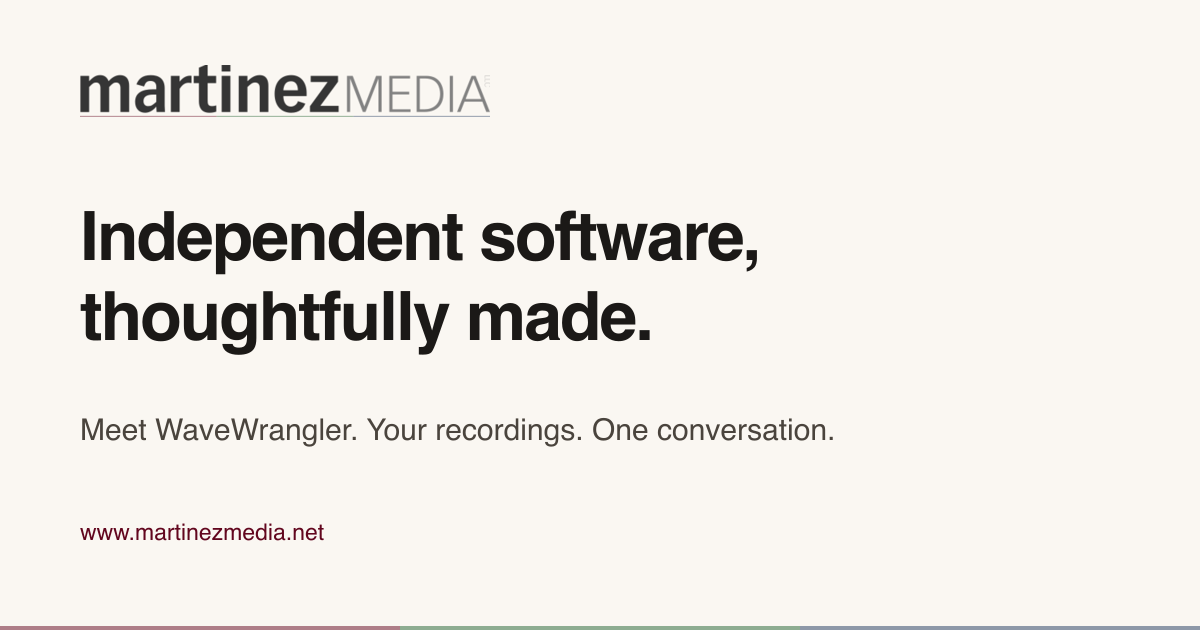
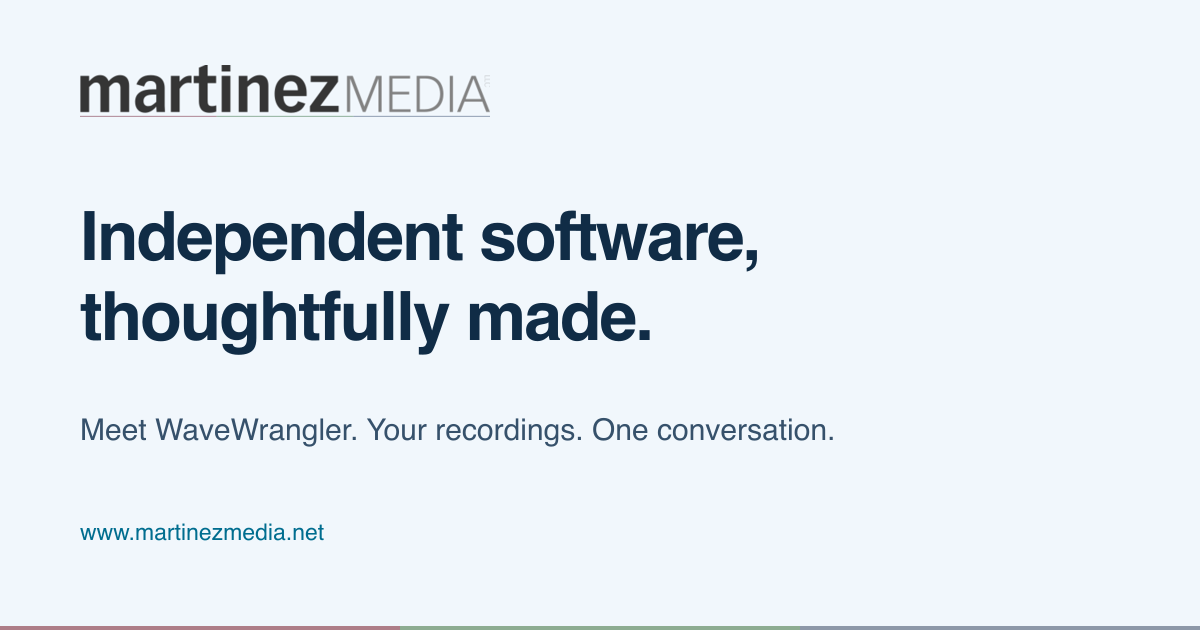
Apply Lake and Signal palette with persistent dark mode

diff --git a/styles/tailwind.css b/styles/tailwind.css
@@ -5,24 +5,27 @@
 @source "../src/**/*.html";
 
 @theme {
-  /* Warm paper palette — restrained, print-like, lets the logos carry colour. */
-  --color-paper: #faf7f2;
-  --color-paper-deep: #f2ece3;
-  --color-ink: #1b1917;
-  --color-ink-soft: #4a443d;
-  --color-ink-faint: #7d766c;
-  --color-rule: #e2d9cc;
-  --color-ember: #9a6b43;
-  --color-wine: #62061e;
-  --color-navy: #21395e;
+  /* Lake & Signal: paired roles follow color-scheme, including without JS. */
+  --color-paper: light-dark(#f1f7fc, #0b1725);
+  --color-paper-deep: light-dark(#dceaf5, #132c40);
+  --color-ink: light-dark(#102c46, #edf6fc);
+  --color-ink-soft: light-dark(#36516b, #b6ccde);
+  --color-ink-faint: light-dark(#47647d, #9cb7cb);
+  --color-rule: light-dark(#bcd0df, #29465e);
+  --color-action: light-dark(#006d8f, #68d5eb);
+  --color-action-hover: light-dark(#00536e, #a4e8f4);
+  --color-on-action: light-dark(#ffffff, #0b1725);
+  --color-accent: light-dark(#db6a3c, #ffb08a);
+  --color-band: light-dark(#123e58, #153e55);
+  --color-on-band: #edf6fc;
+  --color-logo-paper: light-dark(transparent, #f1f7fc);
   --color-white: #ffffff;
 
   /* The three-colour rule beneath the wordmark, carried through from the
-     1990s-era logo. These are the logo's wine/green/navy at the 50% opacity
-     the mark uses, pre-blended over --color-paper. */
-  --color-brand-wine: #ae7e88;
-  --color-brand-green: #8dac91;
-  --color-brand-navy: #8d98a8;
+     1990s-era logo, blended over the active canvas at the original 50%. */
+  --color-brand-wine: color-mix(in srgb, #62061e 50%, var(--color-paper));
+  --color-brand-green: color-mix(in srgb, #216130 50%, var(--color-paper));
+  --color-brand-navy: color-mix(in srgb, #21395e 50%, var(--color-paper));
 
   --font-display:
     "Iowan Old Style", "Palatino Linotype", Palatino, "Book Antiqua", Georgia,
@@ -35,12 +38,15 @@
 }
 
 @layer base {
+  :root { color-scheme: light dark; }
+  :root[data-theme="light"] { color-scheme: light; }
+  :root[data-theme="dark"] { color-scheme: dark; }
   html {
     scroll-behavior: smooth;
   }
   ::selection {
-    background-color: var(--color-ember);
-    color: var(--color-paper);
+    background-color: var(--color-action);
+    color: var(--color-on-action);
   }
 }
 
@@ -61,17 +67,16 @@
   img { height: auto; }
   a { text-underline-offset: .22em; }
   a:hover { text-decoration-thickness: 2px; }
-  :focus-visible { outline: 3px solid var(--color-navy); outline-offset: 5px; }
-  ::selection { background: var(--color-wine); color: var(--color-paper); }
+  :focus-visible { outline: 3px solid var(--color-action); outline-offset: 5px; }
 }
 
 @layer components {
   .wrap { width: min(100% - 3rem, 76rem); margin-inline: auto; }
   .site-header { display: flex; align-items: center; justify-content: space-between; gap: 1.5rem; padding-block: 1.8rem; border-bottom: 1px solid var(--color-rule); }
-  .brand { display: block; width: 13rem; flex-shrink: 0; }
+  .brand { display: block; width: 14.5rem; padding: .65rem .75rem; margin-left: -.75rem; flex-shrink: 0; background: var(--color-logo-paper); border-radius: .3rem; }
   .site-nav { display: flex; flex-wrap: wrap; gap: .3rem 1.6rem; font-size: .9rem; }
   .site-nav a { padding-block: .6rem; text-decoration: none; }
-  .site-nav a:hover, .site-nav [aria-current="page"] { color: var(--color-wine); text-decoration: underline; }
+  .site-nav a:hover, .site-nav [aria-current="page"] { color: var(--color-action); text-decoration: underline; }
   .skip { position: absolute; top: -10rem; left: 1rem; z-index: 10; padding: 1rem; background: var(--color-paper); }
   .skip:focus { top: 1rem; }
   .hero { padding-block: 4.5rem 3rem; }
@@ -81,15 +86,15 @@
   .lead { font-size: clamp(1.1rem, 1.6vw, 1.3rem); color: var(--color-ink-soft); max-width: 52ch; }
   .hero .lead { margin-top: 1.5rem; }
   .actions { display: flex; flex-wrap: wrap; align-items: center; gap: 1rem 1.5rem; margin-top: 1.8rem; }
-  .button { display: inline-flex; align-items: center; justify-content: center; min-height: 3rem; padding: .7rem 1.25rem; background: var(--color-wine); color: var(--color-paper); font-weight: 600; text-decoration: none; border: 1px solid var(--color-wine); border-radius: .25rem; transition: background .18s ease-out; }
-  .button:hover { background: var(--color-ink); border-color: var(--color-ink); }
-  .text-link { font-weight: 600; color: var(--color-wine); }
-  .status { display: inline-block; font-size: .82rem; font-weight: 600; color: var(--color-navy); }
+  .button { display: inline-flex; align-items: center; justify-content: center; min-height: 3rem; padding: .7rem 1.25rem; background: var(--color-action); color: var(--color-on-action); font-weight: 600; text-decoration: none; border: 1px solid var(--color-action); border-radius: .25rem; transition: background .18s ease-out; }
+  .button:hover { background: var(--color-action-hover); border-color: var(--color-action-hover); }
+  .text-link { font-weight: 600; color: var(--color-action); }
+  .status { display: inline-block; font-size: .82rem; font-weight: 600; color: var(--color-action); }
   .fine { font-size: .88rem; color: var(--color-ink-soft); }
   .product-name { display: flex; gap: .9rem; align-items: center; margin-bottom: 1.2rem; font-weight: 650; font-size: 1.15rem; }
   .product-icon { width: 3rem; height: 3rem; border-radius: .6rem; }
   .workspace { margin-block: 2.5rem 0; }
-  .workspace img { display: block; width: 100%; border: 1px solid var(--color-ink-soft); border-radius: .5rem; box-shadow: 0 16px 35px -22px var(--color-ink-soft); }
+  .workspace img { display: block; width: 100%; border: 1px solid var(--color-rule); border-radius: .5rem; box-shadow: 0 16px 35px -22px #0b172560; }
   figcaption { margin-top: .8rem; font-size: .85rem; color: var(--color-ink-soft); }
   .section { padding-block: 5rem; border-top: 1px solid var(--color-rule); }
   .section-title { font-size: clamp(1.9rem, 3.2vw, 3rem); font-weight: 600; letter-spacing: -.035em; max-width: 24ch; margin-bottom: 1.5rem; }
@@ -97,11 +102,12 @@
   .prose { max-width: 70ch; }
   .prose p + p { margin-top: 1.25rem; }
   .prose h2 { margin-top: 2.5rem; margin-bottom: 1rem; font-size: 1.8rem; font-weight: 600; letter-spacing: -.02em; }
-  .prose a { color: var(--color-wine); text-decoration: underline; }
+  .prose a { color: var(--color-action); text-decoration: underline; }
   .feature-list { display: grid; grid-template-columns: repeat(3, 1fr); gap: 2.5rem; }
   .feature-list h3 { margin-bottom: .85rem; font-weight: 600; font-size: 1.3rem; }
   .feature-list p { color: var(--color-ink-soft); }
   .tint { background: var(--color-paper-deep); }
+  .tint .section-title { text-decoration: underline; text-decoration-color: var(--color-accent); text-decoration-thickness: .09em; text-underline-offset: .2em; }
   .catalog-item { display: grid; grid-template-columns: 1fr 1.5fr; gap: 3rem; border-top: 1px solid var(--color-rule); padding-block: 2.75rem; }
   .catalog-item h2 { font-size: 2rem; letter-spacing: -.03em; margin-bottom: .8rem; font-weight: 600; }
   .catalog-item p { max-width: 62ch; }
@@ -116,15 +122,18 @@
   .clients { display: grid; grid-template-columns: repeat(5, 1fr); gap: 1rem; margin-top: 2rem; }
   .clients li { display: grid; place-items: center; aspect-ratio: 1; background: var(--color-white); padding: 1.5rem; border: 1px solid var(--color-rule); }
   .clients img { width: 100%; height: 100%; object-fit: contain; }
-  .contact-band { background: var(--color-navy); color: var(--color-paper); }
-  .contact-band .lead, .contact-band .fine { color: var(--color-paper); }
-  .contact-band a { color: var(--color-paper); overflow-wrap: anywhere; }
+  .contact-band { background: var(--color-band); color: var(--color-on-band); }
+  .contact-band .lead, .contact-band .fine { color: var(--color-on-band); }
+  .contact-band a { color: var(--color-on-band); overflow-wrap: anywhere; }
+  .contact-band :focus-visible { outline-color: var(--color-on-band); }
   .footer-rule { height: 2px; display: flex; }
   .footer-rule span { flex: 1; background: var(--color-brand-wine); }
   .footer-rule span:nth-child(2) { background: var(--color-brand-green); }
   .footer-rule span:nth-child(3) { background: var(--color-brand-navy); }
-  .footer-inner { display: flex; justify-content: space-between; gap: 2rem; padding-block: 2.5rem; font-size: .85rem; color: var(--color-ink-soft); }
+  .footer-inner { display: flex; flex-wrap: wrap; align-items: center; justify-content: space-between; gap: 1.5rem 2rem; padding-block: 2.5rem; font-size: .85rem; color: var(--color-ink-soft); }
   .footer-links { display: flex; flex-wrap: wrap; gap: .6rem 1.5rem; }
+  .theme-switch:not([hidden]) { display: inline-flex; align-items: center; gap: .65rem; }
+  .theme-switch select { min-height: 2.75rem; max-width: 100%; padding: .4rem .6rem; border: 1px solid var(--color-ink-faint); border-radius: .25rem; background: var(--color-paper-deep); color: var(--color-ink); font: inherit; }
   .breadcrumb { margin-bottom: 2rem; font-size: .88rem; color: var(--color-ink-soft); }
   .breadcrumb a { text-decoration: underline; }
   details { border-top: 1px solid var(--color-rule); padding-block: 1.3rem; }

diff --git a/src/privacy/index.html b/src/privacy/index.html
@@ -4,7 +4,10 @@
     <meta charset="utf-8" /><meta name="viewport" content="width=device-width, initial-scale=1" />
     <title>Privacy | Martinez Media website &amp; WaveWrangler</title>
     <meta name="description" content="How the Martinez Media website handles data, what happens when you contact us, and a scoped statement about WaveWrangler’s local transcription and media." />
-    <link rel="canonical" href="https://www.martinezmedia.net/privacy/" /><meta name="theme-color" content="#faf7f2" />
+    <link rel="canonical" href="https://www.martinezmedia.net/privacy/" />
+    <meta name="theme-color" content="#f1f7fc" media="(prefers-color-scheme: light)" />
+    <meta name="theme-color" content="#0b1725" media="(prefers-color-scheme: dark)" />
+    <script src="/theme.js"></script>
     <meta property="og:type" content="website" /><meta property="og:site_name" content="Martinez Media" /><meta property="og:title" content="Privacy | Martinez Media" /><meta property="og:description" content="Website privacy and a scoped statement about WaveWrangler’s local-first media workflow." /><meta property="og:url" content="https://www.martinezmedia.net/privacy/" /><meta property="og:image" content="https://www.martinezmedia.net/images/opengraph.png" />
     <meta name="twitter:card" content="summary_large_image" /><meta name="twitter:title" content="Privacy | Martinez Media" /><meta name="twitter:description" content="Website privacy and WaveWrangler’s local-first media workflow." /><meta name="twitter:image" content="https://www.martinezmedia.net/images/opengraph.png" />
     <link rel="icon" href="/images/favicon.png" type="image/png" /><link rel="apple-touch-icon" href="/images/apple-touch-icon.png" /><link rel="stylesheet" href="/styles.css" />
@@ -16,12 +19,13 @@
       <section class="hero"><h1 class="page-title">Privacy, in context.</h1><p class="lead">This page covers this website and the specific WaveWrangler behavior described below. It is not a blanket privacy policy for every product or self-hosted deployment.</p><p class="fine mt-5">Updated November 17, 2026</p></section>
       <div class="section prose">
         <h2 class="mt-0">This website</h2><p>The Martinez Media website is a static site hosted on GitHub Pages. We do not add analytics, advertising trackers, cookies, account registration, contact forms, or embedded third-party media. Fonts, styles, and images are served with the site. There is no client-side application code required to use it.</p><p>Your browser still makes requests to the hosting provider. GitHub Pages may collect technical information, including IP addresses, for security and operation of the service. See <a href="https://docs.github.com/en/site-policy/privacy-policies/github-general-privacy-statement">GitHub’s privacy statement</a> for the hosting provider’s practices. “No site analytics” does not mean “no hosting logs.”</p>
+        <h2>Your appearance preference</h2><p>The site follows your device’s light or dark setting by default. If you use the Appearance selector, a small optional script saves your choice in this browser’s local storage. That preference is not sent to Martinez Media. If storage is unavailable, you can still change the current page’s appearance. With JavaScript disabled, the site continues to follow your device setting.</p>
         <h2>When you contact us</h2><p>Email links open your email application; this website does not submit a form. If you send a message, your address, message, and any attachments are processed by email providers and received by Martinez Media so we can respond. Do not send passwords, private recordings, or other sensitive material in an initial inquiry.</p><p>For a privacy question or a request concerning information you’ve emailed us, write to <a class="email" href="mailto:contact@martinezmedia.net">contact@martinezmedia.net</a>.</p>
         <h2>Links to other services</h2><p>GitHub repositories and issues, social profiles, and linked product sites are separate destinations with their own practices. GitHub issues are public. Self-hosted deployments depend on their operator’s configuration and any integrations they enable.</p>
         <h2 id="wavewrangler">WaveWrangler: local media and transcription</h2><p>WaveWrangler is in active development. Based on its current product documentation, original recordings are referenced in place rather than rewritten. Editing decisions are stored in the local show document.</p><p>Whisper inference runs locally on your Mac. Model downloads happen only when requested. Recordings and transcripts are not uploaded for transcription. A model download is a network request; local transcription is not a claim that the app never accesses the network.</p><p>If you choose to keep recordings or documents in a cloud-synced location, that provider’s behavior is separate. A verified local save does not confirm that cloud syncing has completed. Third-party Audio Units, software, codecs, and models have their own terms and behavior.</p><p>This is a statement about the documented media and transcription workflow, not an assertion about every third-party component or a future App Store privacy disclosure. See <a href="https://github.com/Martinez-Media/WaveWrangler#your-media-stays-yours">the current WaveWrangler documentation</a> and <a href="https://github.com/Martinez-Media/WaveWrangler/blob/main/docs/product/saving-and-recovery.md">saving and recovery guide</a>.</p>
         <h2>Other products</h2><p>Meal Planner, its MagicMirror integration, WeatherWrangler, and Print Pantry are not covered by the WaveWrangler statement. Consult their source and documentation, and the operator of any deployment, before entering personal data or enabling integrations. <a href="/products/">Find each project</a>.</p>
       </div>
     </main>
-    <footer><div class="footer-rule" aria-hidden="true"><span></span><span></span><span></span></div><div class="footer-inner wrap"><p>&copy; 2026 Martinez Media, LLC. Independent since 2011.</p><nav class="footer-links" aria-label="Footer"><a href="https://github.com/Martinez-Media">GitHub</a><a href="/support/">Support &amp; contact</a><a href="/privacy/" aria-current="page">Privacy</a></nav></div></footer>
+    <footer><div class="footer-rule" aria-hidden="true"><span></span><span></span><span></span></div><div class="footer-inner wrap"><p>&copy; 2026 Martinez Media, LLC. Independent since 2011.</p><nav class="footer-links" aria-label="Footer"><a href="https://github.com/Martinez-Media">GitHub</a><a href="/support/">Support &amp; contact</a><a href="/privacy/" aria-current="page">Privacy</a></nav><label class="theme-switch" data-theme-control hidden>Appearance <select name="theme"><option value="system">System</option><option value="light">Light</option><option value="dark">Dark</option></select></label></div></footer>
   </body>
 </html>

diff --git a/src/products/wavewrangler/index.html b/src/products/wavewrangler/index.html
@@ -4,7 +4,10 @@
     <meta charset="utf-8" /><meta name="viewport" content="width=device-width, initial-scale=1" />
     <title>WaveWrangler | Your recordings. One conversation.</title>
     <meta name="description" content="A native, local-first Mac app for podcast alignment, transcript-assisted edits, music, mixing, and WAV, MP3, or M4A export. WaveWrangler is in active development." />
-    <link rel="canonical" href="https://www.martinezmedia.net/products/wavewrangler/" /><meta name="theme-color" content="#faf7f2" />
+    <link rel="canonical" href="https://www.martinezmedia.net/products/wavewrangler/" />
+    <meta name="theme-color" content="#f1f7fc" media="(prefers-color-scheme: light)" />
+    <meta name="theme-color" content="#0b1725" media="(prefers-color-scheme: dark)" />
+    <script src="/theme.js"></script>
     <meta property="og:type" content="website" /><meta property="og:site_name" content="Martinez Media" /><meta property="og:title" content="WaveWrangler | Your recordings. One conversation." /><meta property="og:description" content="Align, edit, and mix your podcast on your Mac without rewriting your original recordings. In active development." /><meta property="og:url" content="https://www.martinezmedia.net/products/wavewrangler/" /><meta property="og:image" content="https://www.martinezmedia.net/images/products/wavewrangler-workspace.png" /><meta property="og:image:alt" content="WaveWrangler development workspace with a synthetic podcast episode and production mixer." />
     <meta name="twitter:card" content="summary_large_image" /><meta name="twitter:title" content="WaveWrangler | Your recordings. One conversation." /><meta name="twitter:description" content="A native, local-first podcast editing workspace for Mac. In active development." /><meta name="twitter:image" content="https://www.martinezmedia.net/images/products/wavewrangler-workspace.png" />
     <link rel="icon" href="/images/favicon.png" type="image/png" /><link rel="apple-touch-icon" href="/images/apple-touch-icon.png" /><link rel="stylesheet" href="/styles.css" />
@@ -25,6 +28,6 @@
       <section class="section wrap" aria-labelledby="start"><div class="split"><div><h2 class="section-title" id="start">A deliberate workflow.<br />A finished episode.</h2><ol class="steps"><li>Create a show and episode in Library.</li><li>Import recordings and assign each speaker’s Primary.</li><li>Align, review, and explicitly accept timing.</li><li>Transcribe locally, listen, and make your edits.</li><li>Add Audio Clips and balance the Production Mix.</li><li>Review the episode range, metadata, and export.</li></ol></div><aside class="callout" aria-labelledby="availability"><h2 id="availability">Where things stand</h2><p>WaveWrangler is under active development. There are no published GitHub releases. Building from source is the current way to try it.</p><p class="mt-4">The development target is <strong>macOS 26 or later on Apple silicon</strong>, using Xcode with the macOS 26 SDK and Swift 6. This is not a claim of qualification across every Mac, format, or Audio Unit.</p><p class="mt-4">App Store distribution is planned. There is no release date, download, or commercial availability promise.</p><div class="actions"><a class="button" href="https://github.com/Martinez-Media/WaveWrangler#build-and-open-locally">Build from source</a></div><p class="fine mt-4">First-party source: MIT. Third-party software, codecs, and model licenses remain separate. See the repository’s notices and <a class="text-link" href="https://github.com/Martinez-Media/WaveWrangler/blob/main/docs/engineering/export-codecs.md">codec licensing documentation</a>.</p></aside></div></section>
       <section class="section contact-band"><div class="wrap split"><h2 class="section-title">Help shape the next edit.</h2><div><p class="lead">Read the guide, report a reproducible issue, or tell us how your recording workflow works.</p><div class="actions"><a class="text-link" href="https://github.com/Martinez-Media/WaveWrangler/issues">WaveWrangler issues</a><a class="text-link" href="/support/">Support &amp; contact</a></div></div></div></section>
     </main>
-    <footer><div class="footer-rule" aria-hidden="true"><span></span><span></span><span></span></div><div class="footer-inner wrap"><p>&copy; 2026 Martinez Media, LLC. Independent since 2011.</p><nav class="footer-links" aria-label="Footer"><a href="https://github.com/Martinez-Media">GitHub</a><a href="/support/">Support &amp; contact</a><a href="/privacy/">Privacy</a></nav></div></footer>
+    <footer><div class="footer-rule" aria-hidden="true"><span></span><span></span><span></span></div><div class="footer-inner wrap"><p>&copy; 2026 Martinez Media, LLC. Independent since 2011.</p><nav class="footer-links" aria-label="Footer"><a href="https://github.com/Martinez-Media">GitHub</a><a href="/support/">Support &amp; contact</a><a href="/privacy/">Privacy</a></nav><label class="theme-switch" data-theme-control hidden>Appearance <select name="theme"><option value="system">System</option><option value="light">Light</option><option value="dark">Dark</option></select></label></div></footer>
   </body>
 </html>

diff --git a/src/about/index.html b/src/about/index.html
@@ -4,7 +4,10 @@
     <meta charset="utf-8" /><meta name="viewport" content="width=device-width, initial-scale=1" />
     <title>About Martinez Media | Independent since 2011</title>
     <meta name="description" content="Martinez Media is an active independent software company founded by Brandon and Joy Martinez in 2011, with roots in photography, web design, and local business." />
-    <link rel="canonical" href="https://www.martinezmedia.net/about/" /><meta name="theme-color" content="#faf7f2" />
+    <link rel="canonical" href="https://www.martinezmedia.net/about/" />
+    <meta name="theme-color" content="#f1f7fc" media="(prefers-color-scheme: light)" />
+    <meta name="theme-color" content="#0b1725" media="(prefers-color-scheme: dark)" />
+    <script src="/theme.js"></script>
     <meta property="og:type" content="website" /><meta property="og:site_name" content="Martinez Media" /><meta property="og:title" content="About Martinez Media | Independent since 2011" /><meta property="og:description" content="From photography and design to practical software. The story of Martinez Media." /><meta property="og:url" content="https://www.martinezmedia.net/about/" /><meta property="og:image" content="https://www.martinezmedia.net/images/opengraph.png" />
     <meta name="twitter:card" content="summary_large_image" /><meta name="twitter:title" content="About Martinez Media | Independent since 2011" /><meta name="twitter:description" content="From photography and design to practical software. Our story." /><meta name="twitter:image" content="https://www.martinezmedia.net/images/opengraph.png" />
     <link rel="icon" href="/images/favicon.png" type="image/png" /><link rel="apple-touch-icon" href="/images/apple-touch-icon.png" /><link rel="stylesheet" href="/styles.css" />
@@ -18,6 +21,6 @@
       <section class="section tint"><div class="wrap split"><h2 class="section-title">Now, we’re making<br />tools of our own.</h2><div class="prose"><p>WaveWrangler brings separately recorded podcast tracks into one conversation. Meal Planner helps a family decide what’s for dinner. WeatherWrangler brings the weather into the next outing. Print Pantry organizes the things you want to make.</p><p>They’re different projects with a common starting point: a practical task, and a reason to make doing it better.</p><p>We publish source and documentation so you can see the work for yourself. Availability and licensing vary by project; we keep those distinctions visible.</p><p><a href="/products/">Meet the products</a></p></div></div></section>
       <section class="section wrap"><div class="split"><h2 class="section-title">Still easy to reach.</h2><div class="prose"><p>For questions about Martinez Media, product feedback, or a conversation about the work, write to <a class="email" href="mailto:contact@martinezmedia.net">contact@martinezmedia.net</a>.</p><p>You can also find <a href="https://www.brandonmartinez.com">Brandon’s personal site</a>, or visit the photography on <a href="https://www.instagram.com/martinezmediami">Instagram</a> and <a href="https://www.facebook.com/martinezmediaphotography">Facebook</a>.</p></div></div></section>
     </main>
-    <footer><div class="footer-rule" aria-hidden="true"><span></span><span></span><span></span></div><div class="footer-inner wrap"><p>&copy; 2026 Martinez Media, LLC. Independent since 2011.</p><nav class="footer-links" aria-label="Footer"><a href="https://github.com/Martinez-Media">GitHub</a><a href="/support/">Support &amp; contact</a><a href="/privacy/">Privacy</a></nav></div></footer>
+    <footer><div class="footer-rule" aria-hidden="true"><span></span><span></span><span></span></div><div class="footer-inner wrap"><p>&copy; 2026 Martinez Media, LLC. Independent since 2011.</p><nav class="footer-links" aria-label="Footer"><a href="https://github.com/Martinez-Media">GitHub</a><a href="/support/">Support &amp; contact</a><a href="/privacy/">Privacy</a></nav><label class="theme-switch" data-theme-control hidden>Appearance <select name="theme"><option value="system">System</option><option value="light">Light</option><option value="dark">Dark</option></select></label></div></footer>
   </body>
 </html>

diff --git a/src/support/index.html b/src/support/index.html
@@ -4,7 +4,10 @@
     <meta charset="utf-8" /><meta name="viewport" content="width=device-width, initial-scale=1" />
     <title>Support &amp; contact | Martinez Media</title>
     <meta name="description" content="Find Martinez Media product documentation and issue trackers, or contact us at contact@martinezmedia.net for product questions, feedback, and company inquiries." />
-    <link rel="canonical" href="https://www.martinezmedia.net/support/" /><meta name="theme-color" content="#faf7f2" />
+    <link rel="canonical" href="https://www.martinezmedia.net/support/" />
+    <meta name="theme-color" content="#f1f7fc" media="(prefers-color-scheme: light)" />
+    <meta name="theme-color" content="#0b1725" media="(prefers-color-scheme: dark)" />
+    <script src="/theme.js"></script>
     <meta property="og:type" content="website" /><meta property="og:site_name" content="Martinez Media" /><meta property="og:title" content="Support &amp; contact | Martinez Media" /><meta property="og:description" content="Find a guide, report an issue, or start a conversation. contact@martinezmedia.net" /><meta property="og:url" content="https://www.martinezmedia.net/support/" /><meta property="og:image" content="https://www.martinezmedia.net/images/opengraph.png" />
     <meta name="twitter:card" content="summary_large_image" /><meta name="twitter:title" content="Support &amp; contact | Martinez Media" /><meta name="twitter:description" content="Documentation, issues, and a direct way to reach us." /><meta name="twitter:image" content="https://www.martinezmedia.net/images/opengraph.png" />
     <link rel="icon" href="/images/favicon.png" type="image/png" /><link rel="apple-touch-icon" href="/images/apple-touch-icon.png" /><link rel="stylesheet" href="/styles.css" />
@@ -23,6 +26,6 @@
       <section class="section split"><div><h2 class="section-title">A useful bug report<br />starts small.</h2><p class="lead">Tell us the product and version, your operating system, what you tried, what you expected, and what happened instead.</p></div><div class="prose"><p>Share the smallest steps that reproduce the problem. Screenshots can help, but remove personal information first.</p><p>GitHub issues are public. Don’t upload private recordings, transcripts, family details, credentials, or confidential files. Use synthetic examples where possible. Email us first if a report needs private context.</p><p>These are independent projects in active development; this page does not promise a response time or service-level agreement.</p></div></section>
       <section class="section prose"><h2 class="section-title">A company question instead?</h2><p>Product ideas, licensing questions, historical work, or a general hello can all go to <a class="email" href="mailto:contact@martinezmedia.net">contact@martinezmedia.net</a>. For how this site and WaveWrangler handle data, see <a href="/privacy/">Privacy</a>.</p></section>
     </main>
-    <footer><div class="footer-rule" aria-hidden="true"><span></span><span></span><span></span></div><div class="footer-inner wrap"><p>&copy; 2026 Martinez Media, LLC. Independent since 2011.</p><nav class="footer-links" aria-label="Footer"><a href="https://github.com/Martinez-Media">GitHub</a><a href="/support/">Support &amp; contact</a><a href="/privacy/">Privacy</a></nav></div></footer>
+    <footer><div class="footer-rule" aria-hidden="true"><span></span><span></span><span></span></div><div class="footer-inner wrap"><p>&copy; 2026 Martinez Media, LLC. Independent since 2011.</p><nav class="footer-links" aria-label="Footer"><a href="https://github.com/Martinez-Media">GitHub</a><a href="/support/">Support &amp; contact</a><a href="/privacy/">Privacy</a></nav><label class="theme-switch" data-theme-control hidden>Appearance <select name="theme"><option value="system">System</option><option value="light">Light</option><option value="dark">Dark</option></select></label></div></footer>
   </body>
 </html>

diff --git a/src/products/index.html b/src/products/index.html
@@ -5,7 +5,9 @@
     <title>Products | Martinez Media</title>
     <meta name="description" content="Explore WaveWrangler, Meal Planner, WeatherWrangler, and Print Pantry. Practical software from Martinez Media, with source, documentation, and clear availability." />
     <link rel="canonical" href="https://www.martinezmedia.net/products/" />
-    <meta name="theme-color" content="#faf7f2" />
+    <meta name="theme-color" content="#f1f7fc" media="(prefers-color-scheme: light)" />
+    <meta name="theme-color" content="#0b1725" media="(prefers-color-scheme: dark)" />
+    <script src="/theme.js"></script>
     <meta property="og:type" content="website" /><meta property="og:site_name" content="Martinez Media" />
     <meta property="og:title" content="Products | Martinez Media" /><meta property="og:description" content="Software for recording, making, planning, and getting outside. Explore our products and their source." />
     <meta property="og:url" content="https://www.martinezmedia.net/products/" /><meta property="og:image" content="https://www.martinezmedia.net/images/opengraph.png" />
@@ -23,6 +25,6 @@
       <section class="catalog-item" aria-labelledby="print-pantry"><div><h2 id="print-pantry">Print Pantry</h2><p class="status">Self-hosted · In development · Source-available</p></div><div><p class="lead">A home for the things<br />you want to make.</p><p class="mt-4">Browse a 3D-print file catalog, choose a project, and queue a print request. Your files stay usable outside the app; requests do not automatically start a printer.</p><div class="actions"><a class="text-link" href="https://github.com/Martinez-Media/print-pantry">Explore Print Pantry source &amp; docs</a></div><p class="fine mt-4">For a private, self-hosted environment, not direct public internet hosting. No open-source license is currently declared; public source is not a license grant.</p></div></section>
       <section class="section prose"><h2 class="section-title">Built in the open. Labeled honestly.</h2><p>WaveWrangler’s first-party source, Meal Planner, its MagicMirror integration, and WeatherWrangler are MIT licensed. Print Pantry’s source is public, but its licensing is not yet resolved. Each repository is the source of truth for setup, requirements, and license terms. Third-party components and models have their own terms.</p><p>There are no product prices or hosted subscriptions offered on this site. <a href="/support/">Ask us about a product</a> if you’re unsure where to start.</p></section>
     </main>
-    <footer><div class="footer-rule" aria-hidden="true"><span></span><span></span><span></span></div><div class="footer-inner wrap"><p>&copy; 2026 Martinez Media, LLC. Independent since 2011.</p><nav class="footer-links" aria-label="Footer"><a href="https://github.com/Martinez-Media">GitHub</a><a href="/support/">Support &amp; contact</a><a href="/privacy/">Privacy</a></nav></div></footer>
+    <footer><div class="footer-rule" aria-hidden="true"><span></span><span></span><span></span></div><div class="footer-inner wrap"><p>&copy; 2026 Martinez Media, LLC. Independent since 2011.</p><nav class="footer-links" aria-label="Footer"><a href="https://github.com/Martinez-Media">GitHub</a><a href="/support/">Support &amp; contact</a><a href="/privacy/">Privacy</a></nav><label class="theme-switch" data-theme-control hidden>Appearance <select name="theme"><option value="system">System</option><option value="light">Light</option><option value="dark">Dark</option></select></label></div></footer>
   </body>
 </html>

diff --git a/src/past-work/index.html b/src/past-work/index.html
@@ -4,7 +4,10 @@
     <meta charset="utf-8" /><meta name="viewport" content="width=device-width, initial-scale=1" />
     <title>Past work | Martinez Media’s 2011–2023 client services</title>
     <meta name="description" content="A look back at Martinez Media’s 2011–2023 photography, web, branding, and social-media services, with historical counts and selected client logos." />
-    <link rel="canonical" href="https://www.martinezmedia.net/past-work/" /><meta name="theme-color" content="#faf7f2" />
+    <link rel="canonical" href="https://www.martinezmedia.net/past-work/" />
+    <meta name="theme-color" content="#f1f7fc" media="(prefers-color-scheme: light)" />
+    <meta name="theme-color" content="#0b1725" media="(prefers-color-scheme: dark)" />
+    <script src="/theme.js"></script>
     <meta property="og:type" content="website" /><meta property="og:site_name" content="Martinez Media" /><meta property="og:title" content="Past work | Martinez Media" /><meta property="og:description" content="Photography, web, branding, and social media. Our historical client-services work, 2011–2023." /><meta property="og:url" content="https://www.martinezmedia.net/past-work/" /><meta property="og:image" content="https://www.martinezmedia.net/images/opengraph.png" />
     <meta name="twitter:card" content="summary_large_image" /><meta name="twitter:title" content="Past work | Martinez Media" /><meta name="twitter:description" content="Our 2011–2023 client-services work, in context." /><meta name="twitter:image" content="https://www.martinezmedia.net/images/opengraph.png" />
     <link rel="icon" href="/images/favicon.png" type="image/png" /><link rel="apple-touch-icon" href="/images/apple-touch-icon.png" /><link rel="stylesheet" href="/styles.css" />
@@ -41,6 +44,6 @@
       </section>
       <section class="section tint"><div class="wrap split"><h2 class="section-title">A little more of the story.</h2><div class="prose"><p>Photography can still be found on <a href="https://www.instagram.com/martinezmediami">Instagram</a> and <a href="https://www.facebook.com/martinezmediaphotography">Facebook</a>. For the company’s next chapter, <a href="/products/">explore our software</a>.</p><p>Questions about past work? <a class="email" href="mailto:contact@martinezmedia.net">contact@martinezmedia.net</a></p></div></div></section>
     </main>
-    <footer><div class="footer-rule" aria-hidden="true"><span></span><span></span><span></span></div><div class="footer-inner wrap"><p>&copy; 2026 Martinez Media, LLC. Independent since 2011.</p><nav class="footer-links" aria-label="Footer"><a href="https://github.com/Martinez-Media">GitHub</a><a href="/support/">Support &amp; contact</a><a href="/privacy/">Privacy</a></nav></div></footer>
+    <footer><div class="footer-rule" aria-hidden="true"><span></span><span></span><span></span></div><div class="footer-inner wrap"><p>&copy; 2026 Martinez Media, LLC. Independent since 2011.</p><nav class="footer-links" aria-label="Footer"><a href="https://github.com/Martinez-Media">GitHub</a><a href="/support/">Support &amp; contact</a><a href="/privacy/">Privacy</a></nav><label class="theme-switch" data-theme-control hidden>Appearance <select name="theme"><option value="system">System</option><option value="light">Light</option><option value="dark">Dark</option></select></label></div></footer>
   </body>
 </html>

diff --git a/src/index.html b/src/index.html
@@ -1,6 +1,6 @@
 <!doctype html>
 <!-- THESIS: Software worth making, shown through the real work, not invented proof.
-OWN-WORLD: Authentic Martinez wordmark, paper, ink, wine actions and sparse tricolor.
+OWN-WORLD: Authentic wordmark, Lake & Signal light/dark, blue actions, sparse tricolor.
 STORY: Meet WaveWrangler, inspect its workspace, explore source and related products.
 FIRST VIEWPORT: Brand and navigation, large promise at left, product context at right,
 then a full-width real episode workspace. FORM: Brief-pinned screenshot-led marketing. -->
@@ -11,7 +11,9 @@ then a full-width real episode workspace. FORM: Brief-pinned screenshot-led mark
     <title>Martinez Media | Independent software, thoughtfully made</title>
     <meta name="description" content="Independent software from Martinez Media. Meet WaveWrangler, a local-first podcast editor for Mac, and explore our growing collection of practical products." />
     <link rel="canonical" href="https://www.martinezmedia.net/" />
-    <meta name="theme-color" content="#faf7f2" />
+    <meta name="theme-color" content="#f1f7fc" media="(prefers-color-scheme: light)" />
+    <meta name="theme-color" content="#0b1725" media="(prefers-color-scheme: dark)" />
+    <script src="/theme.js"></script>
     <meta property="og:type" content="website" />
     <meta property="og:site_name" content="Martinez Media" />
     <meta property="og:title" content="Martinez Media | Independent software, thoughtfully made" />
@@ -99,7 +101,7 @@ then a full-width real episode workspace. FORM: Brief-pinned screenshot-led mark
     </main>
     <footer>
       <div class="footer-rule" aria-hidden="true"><span></span><span></span><span></span></div>
-      <div class="footer-inner wrap"><p>&copy; 2026 Martinez Media, LLC. Independent since 2011.</p><nav class="footer-links" aria-label="Footer"><a href="https://github.com/Martinez-Media">GitHub</a><a href="/support/">Support &amp; contact</a><a href="/privacy/">Privacy</a></nav></div>
+      <div class="footer-inner wrap"><p>&copy; 2026 Martinez Media, LLC. Independent since 2011.</p><nav class="footer-links" aria-label="Footer"><a href="https://github.com/Martinez-Media">GitHub</a><a href="/support/">Support &amp; contact</a><a href="/privacy/">Privacy</a></nav><label class="theme-switch" data-theme-control hidden>Appearance <select name="theme"><option value="system">System</option><option value="light">Light</option><option value="dark">Dark</option></select></label></div>
     </footer>
   </body>
 </html>

diff --git a/src/theme.js b/src/theme.js
@@ -1,0 +1,50 @@
+(() => {
+  const key = "martinezmedia-theme";
+  const root = document.documentElement;
+  const system = window.matchMedia("(prefers-color-scheme: dark)");
+  const colors = document.querySelectorAll('meta[name="theme-color"]');
+  const preferences = ["system", "light", "dark"];
+  let preference = "system";
+
+  try {
+    const saved = window.localStorage.getItem(key);
+    if (preferences.includes(saved)) {
+      preference = saved;
+    } else if (saved !== null) {
+      console.warn("Unrecognized saved theme preference. Using the device setting.");
+    }
+  } catch (error) {
+    if (error.name !== "SecurityError") throw error;
+    console.warn("Theme preference could not be read. Using the device setting.", error);
+  }
+
+  function apply() {
+    root.dataset.theme = preference;
+    const dark = preference === "dark" || (preference === "system" && system.matches);
+    for (const meta of colors) meta.content = dark ? "#0b1725" : "#f1f7fc";
+  }
+
+  apply();
+  system.addEventListener("change", apply);
+
+  document.addEventListener("DOMContentLoaded", () => {
+    const control = document.querySelector("[data-theme-control]");
+    const select = control.querySelector("select");
+    select.value = preference;
+    select.addEventListener("change", () => {
+      if (!preferences.includes(select.value)) {
+        console.warn("Unrecognized theme selection. The current theme was retained.");
+        return;
+      }
+      preference = select.value;
+      apply();
+      try {
+        window.localStorage.setItem(key, preference);
+      } catch (error) {
+        if (error.name !== "SecurityError" && error.name !== "QuotaExceededError") throw error;
+        console.warn("Theme changed, but the preference could not be saved in this browser.", error);
+      }
+    });
+    control.hidden = false;
+  });
+})();

diff --git a/README.md b/README.md
@@ -30,7 +30,7 @@ browser refreshes. Pages live in route directories under `src/`.
 | `npm run dev`   | Watch CSS + serve `src/` with live reload on port 4173             |
 | `npm run build` | Compile minified CSS, then assemble `_site/` (the deploy artifact) |
 | `npm run css`   | Compile `styles/tailwind.css` to `src/styles.css` once             |
-| `npm run check` | Check the built routes, local links, assets, metadata, and sitemap |
+| `npm run check` | Test appearance preferences; check built routes, links, assets, and metadata |
 | `npm run clean` | Delete `_site/` and `src/styles.css`                               |
 
 ## Layout
@@ -46,6 +46,7 @@ src/                           everything that ships
   past-work/                   historical services, counts, and client logos
   support/                     documentation, issue trackers, and contact
   privacy/                     website and scoped WaveWrangler privacy information
+  theme.js                     optional, dependency-free appearance preference
   images/clients/              historical client logos
   images/products/             authentic product branding and screenshots
   images/                      brand SVGs, favicon, apple touch icon, Open Graph image
@@ -66,10 +67,17 @@ committed so CI installs the exact same tree.
 Tailwind CSS v4 via `@tailwindcss/cli`. There is no `tailwind.config.js` — the palette,
 fonts, and custom utilities are declared in the `@theme` block in `styles/tailwind.css`.
 
+The Lake & Signal palette uses paired `light-dark()` tokens and native `color-scheme`.
+Without JavaScript, every page follows the device setting. An optional early script
+restores a saved System / Light / Dark choice before the stylesheet paints, then enables
+the footer's Appearance control. Only that choice is stored locally; storage failures
+are logged and do not prevent changing the current page. Original logos and screenshots
+are never inverted; the company wordmark gets a light backing in dark mode.
+
 ## Deploying
 
 Pushing to `main` triggers [`.github/workflows/deploy.yml`](.github/workflows/deploy.yml),
-which runs `npm ci && npm run build` and publishes `_site/` to GitHub Pages. Nothing else
+which runs `npm ci && npm run build && npm run check` and publishes `_site/` to GitHub Pages. Nothing else
 needs to be done by hand.
 
 `CNAME` lives at the repo root, is copied into `_site/` by the build, and must not be

diff --git a/AGENTS.md b/AGENTS.md
@@ -18,6 +18,8 @@ not the lifetime of the company. Never restore the incorrect dissolution or clos
   ipsum — nothing there is safe to copy as copy. Only the client _names_ were ever real.
 - No JavaScript is required to render any page. Keep it that way: each must be complete and
   readable with JS disabled.
+- `src/theme.js` is optional progressive enhancement for the footer Appearance selector.
+  Keep automatic system light/dark styling in CSS, and preserve JS-disabled rendering.
 
 ## Dependency budget
 
@@ -68,6 +70,9 @@ Never commit `_site/` or `src/styles.css`. Always commit `package-lock.json`.
 `@tailwindcss/cli`, and `styles/tailwind.css` is just `@import "tailwindcss";` plus
 `@source` and `@theme`. There is **no `tailwind.config.js`** — theming (colours, fonts)
 goes in the `@theme` block. Most tutorials still show the v3 shape; do not copy it.
+The user selected Lake & Signal: blue/teal actions, lake/navy surfaces, coral accents.
+Paired `light-dark()` tokens follow native `color-scheme`; never invert product images
+or original logos to implement dark mode. Document appearance storage on the privacy page.
 
 ## Deploys
 
